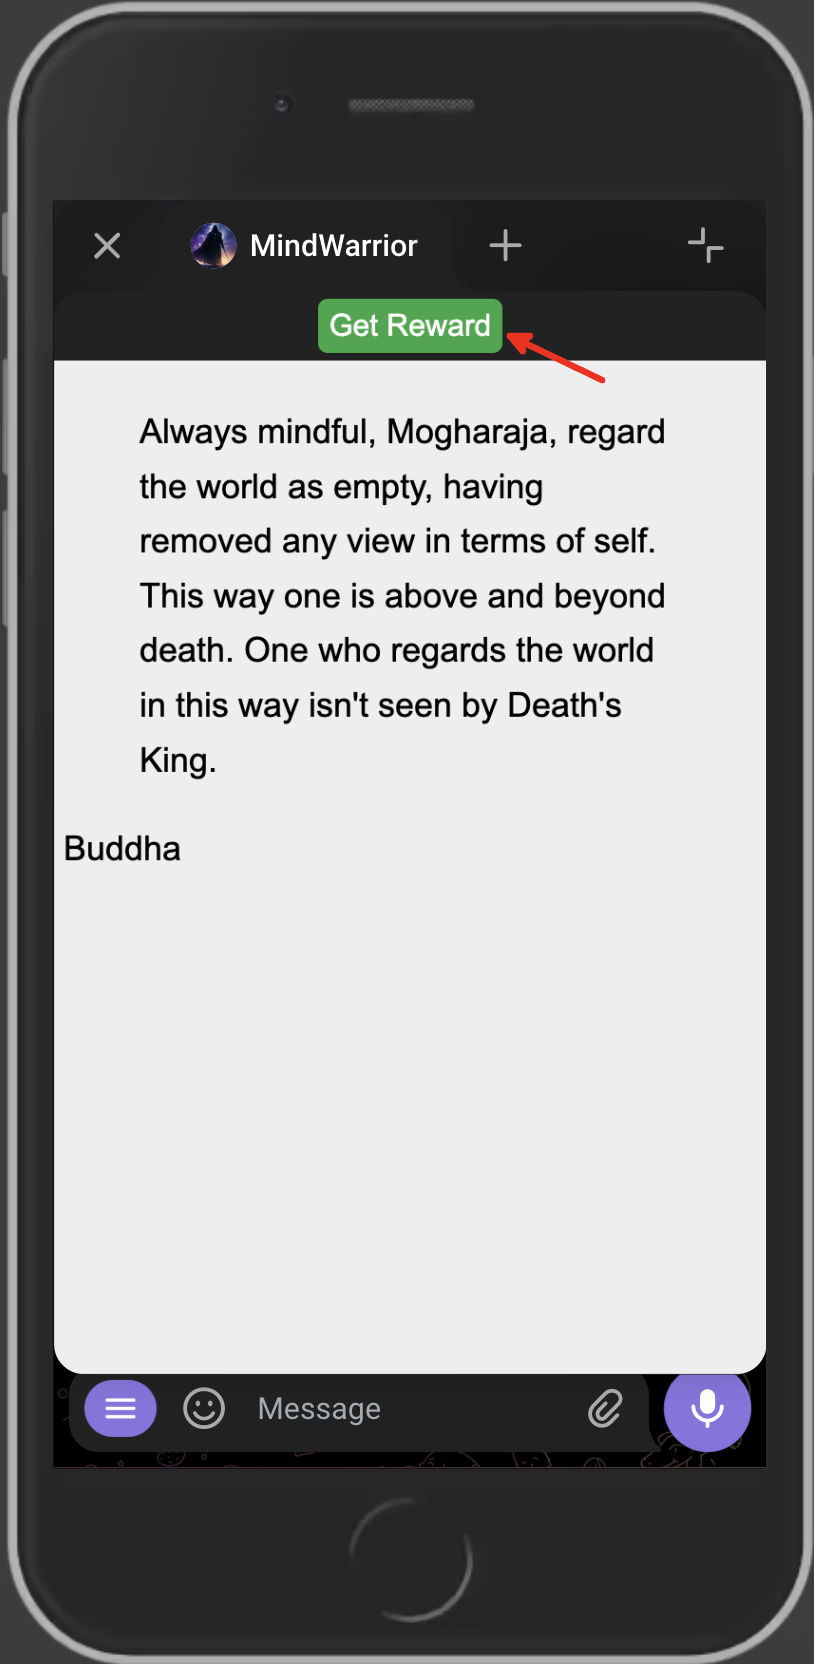
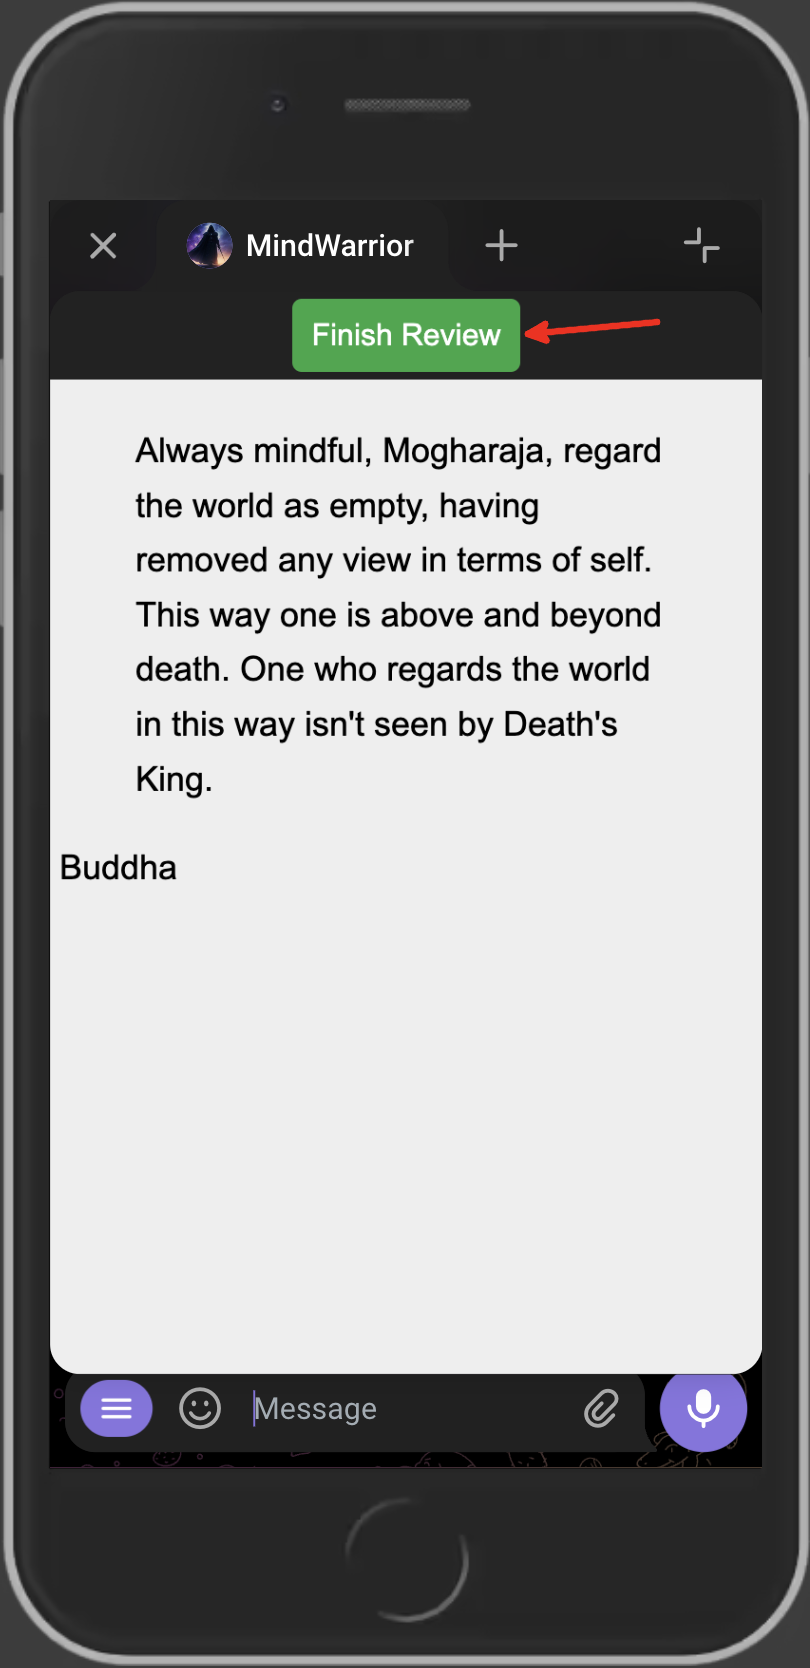
Quickstart (en) is updated

diff --git a/quick-start.en.php b/quick-start.en.php
@@ -112,7 +112,7 @@ $LANG='en';
     <div class="quickstart-step">
         <h1>Read your <i>Formula</i></h1>
         <p>
-            When finished, press "Get Reward" button.
+            When finished, press "Finish Review" button.
         </p>
     </div>
 </div>
@@ -122,9 +122,9 @@ $LANG='en';
         <a href="/images/quickstart_en/_09.png?<?=$ver;?>" class="image-link"><img src='/images/quickstart_en/_09_cropped.png?<?=$ver;?>' width='250' /></a>
     </div>
     <div class="quickstart-step">
-        <h1>Enjoy your reward!</h1>
+        <h1>All done!</h1>
         <p>
-            Don't forget to regularly review your <i>Formulas</i>.
+            Don't forget to come back from time to time to review your <i>Formula</i>.
         </p>
     </div>
 </div>
